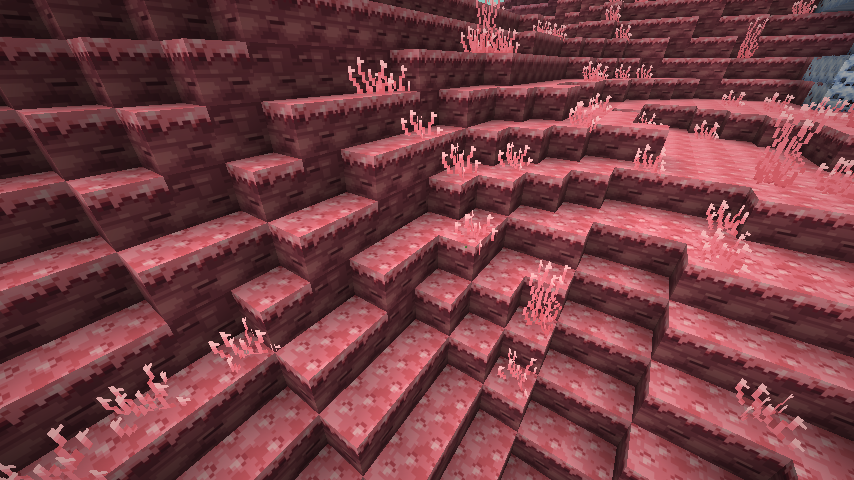
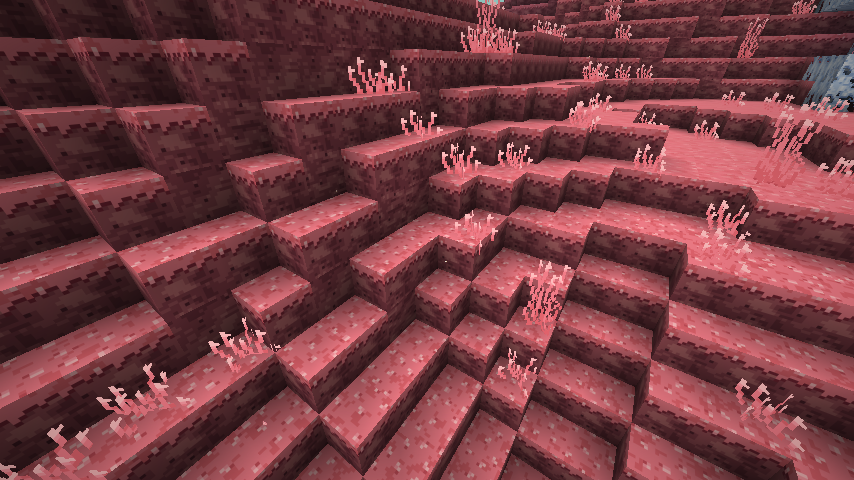
WP-041: texture pass for seamless tiling and variants (owner request)
- Ground textures lose the features the eye followed from block to block:
  hymnstone (soft strata + tiny pores, no crease lines), healthy sculk top
  (calm coral base with scattered small petal clusters), tide sand (short
  broken ripples), songwood leaves (small clumps and scattered gaps).
- Variants: hymnstone x3, tide sand x3, songwood leaves x2, songwood log x2
  (flute holes placed differently), healthy sculk top x3 with 4 random
  rotations each (12 looks), via weighted blockstates in datagen.
- Membrane: a calm two-tone sheet with drifting light ribbons. Ichor: a
  smooth violet body with sparse drifting teal/magenta glints, low contrast
  because every block shows the same frame (as vanilla water does).
- palette.md: tiling rule and the new texture rows (31 textures, 0 errors).
- Previews refreshed from the client GameTest.

Claude-Session: https://claude.ai/code/session_01SmpMRoc9ZR8dTfFL6UVYed

diff --git a/tools/art/build_textures.py b/tools/art/build_textures.py
@@ -87,14 +87,28 @@ def put(im: Image.Image, pts, colour) -> None:
 
 
 # ---------------------------------------------------------------- hymnstone family
+def scatter(seed: int, count: int, spacing: float, w: int = W, h: int = H) -> list[tuple[int, int]]:
+    """Up to `count` points at least `spacing` apart on the wrapped w×h torus (seeded dart throwing)."""
+    rnd = random.Random(seed)
+    pts: list[tuple[int, int]] = []
+    for _ in range(count * 40):
+        if len(pts) == count:
+            break
+        x, y = rnd.randrange(w), rnd.randrange(h)
+        if all(min(abs(x - px), w - abs(x - px)) ** 2 + min(abs(y - py), h - abs(y - py)) ** 2 >= spacing ** 2 for px, py in pts):
+            pts.append((x, y))
+    return pts
+
+
 def hymnstone_pattern(seed: int = 3) -> Image.Image:
-    # Horizontal strata: a noise stretched sideways (2×6 lattice), three tones plus rare deep creases.
-    n = tile_noise(W, H, 2, 6, seed, ((1.0, 1), (0.35, 2)))
-    im = bands(n, [0.18, 0.62, 0.9], [rgba("hymnstone", 2), rgba("hymnstone", 3), rgba("hymnstone", 4), rgba("hymnstone", 5)])
-    # A few dark creases with a highlight above them (light from the top-left).
-    for (x, y, ln) in ((2, 4, 4), (9, 10, 5)):
-        put(im, [(x + i, y) for i in range(ln)], rgba("hymnstone", 1))
-        put(im, [(x + i - 1, y - 1) for i in range(ln - 1)], rgba("hymnstone", 5))
+    # Soft strata: noise stretched sideways plus fine grain, in four close tones. No lines or other
+    # shapes the eye could follow from block to block (the lesson of vanilla stone).
+    n = tile_noise(W, H, 3, 8, seed, ((1.0, 1), (0.5, 2), (0.3, 4)))
+    im = bands(n, [0.1, 0.5, 0.88], [rgba("hymnstone", 2), rgba("hymnstone", 3), rgba("hymnstone", 4), rgba("hymnstone", 5)])
+    # A few tiny pores: one dark pixel with a lit pixel above it.
+    for x, y in scatter(seed * 13 + 1, 4, 5.0):
+        put(im, [(x, y)], rgba("hymnstone", 1))
+        put(im, [(x, y - 1)], rgba("hymnstone", 4))
     return im
 
 
@@ -126,20 +140,24 @@ def hymnstone_bricks() -> Image.Image:
 
 
 # ---------------------------------------------------------------- healthy sculk
-PETAL_TUFT = [  # a small cluster of rounded petals: light crown (P), petal (p), shade (s)
-    ".pP.",
-    "pPPp",
-    "spps",
-    ".ss.",
+PETALS = [  # small petal clusters, all lit from the top-left: crown (P), petal (p), shade (s)
+    ["Pp", "ps"],
+    [".P", "Pp", "s."],
+    ["PP.", "pps"],
+    ["P.", "pP", ".s"],
 ]
 
 
-def healthy_sculk_top() -> Image.Image:
-    n = tile_noise(W, H, 5, 5, 21, ((1.0, 1), (0.5, 2)))
-    im = bands(n, [0.2, 0.75], [rgba("healthy_sculk", 3), rgba("healthy_sculk", 4), rgba("healthy_sculk", 5)])
+def healthy_sculk_top(seed: int = 21) -> Image.Image:
+    # A carpet of tiny petals: fine low-contrast noise, then small scattered clusters in varied
+    # shapes. Blockstates add random rotations on top of the variants, as vanilla grass does.
+    n = tile_noise(W, H, 8, 8, seed, ((1.0, 1), (0.35, 2)))
+    im = bands(n, [0.25], [rgba("healthy_sculk", 3), rgba("healthy_sculk", 4)])
     colours = {"P": rgba("healthy_sculk", 6), "p": rgba("healthy_sculk", 5), "s": rgba("healthy_sculk", 2)}
-    for (ox, oy) in ((1, 2), (9, 4), (5, 10), (13, 12)):
-        for dy, row in enumerate(PETAL_TUFT):
+    rnd = random.Random(seed)
+    for (ox, oy) in scatter(seed * 7 + 3, 8, 4.5):
+        shape = PETALS[rnd.randrange(len(PETALS))]
+        for dy, row in enumerate(shape):
             for dx, ch in enumerate(row):
                 if ch != ".":
                     put(im, [(ox + dx, oy + dy)], colours[ch])
@@ -237,12 +255,15 @@ FLUTE_HOLE = [  # 2×3 hole: lip (L) on the lit top-left, bore (b), shaded rim (
 ]
 
 
-def songwood_log() -> Image.Image:
-    # Bark: vertical furrows (noise stretched vertically).
-    n = tile_noise(W, H, 8, 2, 31, ((1.0, 1), (0.3, 2)))
+FLUTE_SPOTS = {1: ((4, 3), (11, 11)), 2: ((2, 9), (12, 2))}
+
+
+def songwood_log(variant: int = 1) -> Image.Image:
+    # Bark: vertical furrows (noise stretched vertically); two flute holes, placed per variant.
+    n = tile_noise(W, H, 8, 2, 31 + variant * 100, ((1.0, 1), (0.3, 2)))
     im = bands(n, [0.22, 0.6, 0.88], [rgba("songwood_bark", 1), rgba("songwood_bark", 2), rgba("songwood_bark", 3), rgba("songwood_bark", 4)])
     c = {"L": rgba("flute", 0), "l": rgba("songwood_bark", 5), "b": rgba("songwood_bark", 0)}
-    for (ox, oy) in ((4, 3), (11, 11)):
+    for (ox, oy) in FLUTE_SPOTS[variant]:
         for dy, row in enumerate(FLUTE_HOLE):
             for dx, ch in enumerate(row):
                 if ch != ".":
@@ -286,15 +307,17 @@ def songwood_planks() -> Image.Image:
     return im
 
 
-def songwood_leaves() -> Image.Image:
-    n = tile_noise(W, H, 8, 8, 51, ((1.0, 1), (0.4, 2)))
-    im = bands(n, [0.16, 0.38, 0.7, 0.9],
+def songwood_leaves(seed: int = 51) -> Image.Image:
+    # Fine-grained so the gaps scatter as single pixels and pairs, like vanilla leaves, instead of
+    # forming blobs that line up from block to block.
+    n = tile_noise(W, H, 6, 6, seed, ((1.0, 1), (0.75, 2)))
+    im = bands(n, [0.2, 0.42, 0.75, 0.93],
                [(0, 0, 0, 0), rgba("songwood_leaves", 1), rgba("songwood_leaves", 2), rgba("songwood_leaves", 3), rgba("songwood_leaves", 4)])
     px = im.load()
-    # Pale-blue edges where a leaf meets a gap below or right (shade side).
+    # Pale-blue edges where a leaf meets a gap below (shade side).
     for y in range(H):
         for x in range(W):
-            if px[x, y][3] and (px[x, (y + 1) % H][3] == 0 or px[(x + 1) % W, y][3] == 0):
+            if px[x, y][3] and px[x, (y + 1) % H][3] == 0:
                 px[x, y] = rgba("songwood_leaves", 0)
     return im
 
@@ -329,15 +352,19 @@ def songwood_sapling() -> Image.Image:
 
 
 # ---------------------------------------------------------------- tide basin
-def tide_sand() -> Image.Image:
-    n = tile_noise(W, H, 4, 4, 61)
-    im = bands(n, [0.3, 0.75], [rgba("tide_sand", 2), rgba("tide_sand", 3), rgba("tide_sand", 4)])
-    # Ripple marks: gently waving lines, dark trough with a light crest above.
-    for base in (2, 7, 12):
-        for x in range(W):
-            y = base + round(math.sin(x / W * 2 * math.pi + base) * 1.0)
-            put(im, [(x, y)], rgba("tide_sand", 1))
-            put(im, [(x, y - 1)], rgba("tide_sand", 5))
+def tide_sand(seed: int = 61) -> Image.Image:
+    # Fine silt in three close tones, with short broken ripple marks (crest over trough) scattered
+    # per variant rather than lines running across every block.
+    n = tile_noise(W, H, 5, 5, seed, ((1.0, 1), (0.6, 2)))
+    im = bands(n, [0.15, 0.7], [rgba("tide_sand", 2), rgba("tide_sand", 3), rgba("tide_sand", 4)])
+    rnd = random.Random(seed)
+    for (x0, y0) in scatter(seed * 5 + 2, 6, 5.0):
+        ln = rnd.randint(3, 6)
+        phase = rnd.random() * 6.28
+        for i in range(ln):
+            y = y0 + round(math.sin(i / 2.5 + phase) * 0.6)
+            put(im, [(x0 + i, y)], rgba("tide_sand", 1 if 0 < i < ln - 1 else 2))
+            put(im, [(x0 + i, y - 1)], rgba("tide_sand", 5))
     return im
 
 
@@ -406,6 +433,8 @@ MEM_C = noise_fn(6, 6, 107)
 
 
 def membrane_frames(n: int = 32) -> list[Image.Image]:
+    # A calm cyan sheet: two soft tones that drift, crossed by thin bright ribbons (the contour of a
+    # second drifting field), so it shimmers without tiling into a pattern.
     frames = []
     for f in range(n):
         im = Image.new("RGBA", (W, H))
@@ -413,35 +442,40 @@ def membrane_frames(n: int = 32) -> list[Image.Image]:
         s = f / n * W  # scroll one full period over the loop
         for y in range(H):
             for x in range(W):
-                v = 0.55 * MEM_A(x + s, y) + 0.45 * MEM_B(x, y - s) + 0.25 * MEM_C(x - s, y + s)
-                i = max(0, min(5, int((v - 0.18) / 0.82 * 7)))
-                px[x, y] = rgba("membrane", i, 176 + i * 9)
+                body = 0.6 * MEM_A(x + s, y) + 0.4 * MEM_B(x, y - s)
+                i = 2 if body < 0.5 else 3
+                rib = MEM_C(x - s, y + s)
+                if abs(rib - 0.5) < 0.05:
+                    i = 4
+                if abs(rib - 0.5) < 0.018:
+                    i = 5
+                px[x, y] = rgba("membrane", i, 184 + i * 8)
         frames.append(im)
     return frames
 
 
 # ---------------------------------------------------------------- ichor
 def ichor_frame(w: int, h: int, t: float, flow: bool) -> Image.Image:
-    """Thick iridescent liquid: a dark violet body with slow teal and magenta sheens."""
-    body = noise_fn(3, 3, 111, w, h)
-    sheen_t = noise_fn(4, 4, 113, w, h)
-    sheen_m = noise_fn(5, 3, 117, w, h)
+    """Thick iridescent liquid: a smooth dark-violet body with sparse drifting glints of teal and
+    magenta, like vanilla lava's specks. Low contrast on purpose: every block shows the same frame,
+    so anything bold would draw a grid."""
+    body = noise_fn(4, 4, 111, w, h)
+    teal = noise_fn(5, 5, 113, w, h)
+    magenta = noise_fn(6, 4, 117, w, h)
     im = Image.new("RGBA", (w, h))
     px = im.load()
     s = t * w
     for y in range(h):
         for x in range(w):
             if flow:
-                b, st, sm = body(x, y - s), sheen_t(x, y - s), sheen_m(x, y - 2 * s)
+                b, gt, gm = body(x, y - s), teal(x, y - s), magenta(x, y - 2 * s)
             else:
-                b, st, sm = body(x + s, y), sheen_t(x, y + s), sheen_m(x - s, y - s)
-            colour = rgba("ichor_violet", 1) if b < 0.45 else rgba("ichor_violet", 2)
-            if b < 0.22:
-                colour = rgba("ichor_violet", 0)
-            if st > 0.72:
-                colour = rgba("ichor_teal", 2) if st < 0.84 else rgba("ichor_teal", 3)
-            if sm > 0.76:
-                colour = rgba("ichor_violet", 3) if sm < 0.86 else rgba("ichor_violet", 4)
+                b, gt, gm = body(x + s, y), teal(x, y + s), magenta(x - s, y - s)
+            colour = rgba("ichor_violet", 1) if b < 0.2 else rgba("ichor_violet", 2)
+            if gt > 0.84:
+                colour = rgba("ichor_teal", 1) if gt < 0.93 else rgba("ichor_teal", 2)
+            if gm > 0.9:
+                colour = rgba("ichor_violet", 3)
             px[x, y] = colour
     return im
 
@@ -500,18 +534,26 @@ def trill() -> Image.Image:
 
 def main() -> None:
     save(hymnstone_pattern(), "block/hymnstone.png")
+    save(hymnstone_pattern(seed=4), "block/hymnstone_2.png")
+    save(hymnstone_pattern(seed=9), "block/hymnstone_3.png")
     save(hymnstone_bricks(), "block/hymnstone_bricks.png")
     save(healthy_sculk_top(), "block/healthy_sculk_top.png")
+    save(healthy_sculk_top(seed=22), "block/healthy_sculk_top_2.png")
+    save(healthy_sculk_top(seed=27), "block/healthy_sculk_top_3.png")
     save(healthy_sculk_side(), "block/healthy_sculk_side.png")
     save(plant(GRASS_SHORT), "block/healthy_sculk_grass.png")
     save(plant(GRASS_TALL_BOTTOM), "block/tall_healthy_sculk_grass_bottom.png")
     save(plant(GRASS_TALL_TOP), "block/tall_healthy_sculk_grass_top.png")
     save(songwood_log(), "block/songwood_log.png")
+    save(songwood_log(variant=2), "block/songwood_log_2.png")
     save(songwood_log_top(), "block/songwood_log_top.png")
     save(songwood_planks(), "block/songwood_planks.png")
     save(songwood_leaves(), "block/songwood_leaves.png")
+    save(songwood_leaves(seed=57), "block/songwood_leaves_2.png")
     save(songwood_sapling(), "block/songwood_sapling.png")
     save(tide_sand(), "block/tide_sand.png")
+    save(tide_sand(seed=62), "block/tide_sand_2.png")
+    save(tide_sand(seed=67), "block/tide_sand_3.png")
     save(tide_vent_top(), "block/tide_vent_top.png")
     save(tide_vent_side(), "block/tide_vent_side.png")
     save(gatestone(top=False), "block/gatestone.png")

diff --git a/src/client/java/thesift/datagen/ModModelProvider.java b/src/client/java/thesift/datagen/ModModelProvider.java
@@ -1,5 +1,9 @@
 package thesift.datagen;
 
+import java.util.ArrayList;
+import java.util.List;
+import java.util.function.Function;
+
 import net.fabricmc.fabric.api.client.datagen.v1.provider.FabricModelProvider;
 import net.fabricmc.fabric.api.datagen.v1.FabricPackOutput;
 import net.minecraft.client.data.models.BlockModelGenerators;
@@ -10,7 +14,10 @@ import net.minecraft.client.data.models.model.ModelLocationUtils;
 import net.minecraft.client.resources.model.sprite.Material;
 import net.minecraft.core.Direction;
 import net.minecraft.world.level.block.state.properties.BlockStateProperties;
+import net.minecraft.client.data.models.model.ModelTemplate;
 import net.minecraft.client.data.models.model.ModelTemplates;
+import net.minecraft.client.renderer.block.dispatch.Variant;
+import net.minecraft.resources.Identifier;
 import net.minecraft.client.data.models.model.TextureMapping;
 import net.minecraft.client.data.models.model.TextureSlot;
 import net.minecraft.client.data.models.model.TexturedModel;
@@ -28,26 +35,38 @@ final class ModModelProvider extends FabricModelProvider {
 
 	@Override
 	public void generateBlockStateModels(BlockModelGenerators g) {
-		g.createTrivialCube(ModBlocks.HYMNSTONE);
+		// Ground blocks get texture variants (and sculk tops random rotations) so no grid shows (palette.md).
+		g.blockStateOutput.accept(MultiVariantGenerator.dispatch(ModBlocks.HYMNSTONE, BlockModelGenerators.variants(
+				textureVariants(g, ModBlocks.HYMNSTONE, ModelTemplates.CUBE_ALL, 3, sfx -> TextureMapping.cube(TextureMapping.getBlockTexture(ModBlocks.HYMNSTONE, sfx))))));
 		g.family(ModBlocks.HYMNSTONE_BRICKS)
 				.stairs(ModBlocks.HYMNSTONE_BRICK_STAIRS)
 				.slab(ModBlocks.HYMNSTONE_BRICK_SLAB)
 				.wall(ModBlocks.HYMNSTONE_BRICK_WALL);
 
-		// Nylium-style: petalled top, fringed side, hymnstone bottom.
-		cubeBottomTop(g, ModBlocks.HEALTHY_SCULK, new TextureMapping()
+		// Nylium-style: petalled top, fringed side, hymnstone bottom; 3 top variants x 4 rotations.
+		List<Variant> sculk = new ArrayList<>();
+		for (Variant top : textureVariants(g, ModBlocks.HEALTHY_SCULK, ModelTemplates.CUBE_BOTTOM_TOP, 3, sfx -> new TextureMapping()
 				.put(TextureSlot.BOTTOM, TextureMapping.getBlockTexture(ModBlocks.HYMNSTONE))
-				.put(TextureSlot.TOP, TextureMapping.getBlockTexture(ModBlocks.HEALTHY_SCULK, "_top"))
-				.put(TextureSlot.SIDE, TextureMapping.getBlockTexture(ModBlocks.HEALTHY_SCULK, "_side")));
+				.put(TextureSlot.TOP, TextureMapping.getBlockTexture(ModBlocks.HEALTHY_SCULK, "_top" + sfx))
+				.put(TextureSlot.SIDE, TextureMapping.getBlockTexture(ModBlocks.HEALTHY_SCULK, "_side")))) {
+			sculk.addAll(List.of(top, top.with(BlockModelGenerators.Y_ROT_90), top.with(BlockModelGenerators.Y_ROT_180), top.with(BlockModelGenerators.Y_ROT_270)));
+		}
+		g.blockStateOutput.accept(MultiVariantGenerator.dispatch(ModBlocks.HEALTHY_SCULK, BlockModelGenerators.variants(sculk.toArray(Variant[]::new))));
 		g.createCrossBlockWithDefaultItem(ModBlocks.HEALTHY_SCULK_GRASS, BlockModelGenerators.PlantType.NOT_TINTED);
 		g.createDoublePlantWithDefaultItem(ModBlocks.TALL_HEALTHY_SCULK_GRASS, BlockModelGenerators.PlantType.NOT_TINTED);
 
-		g.woodProvider(ModBlocks.SONGWOOD_LOG).log(ModBlocks.SONGWOOD_LOG);
+		g.blockStateOutput.accept(MultiVariantGenerator.dispatch(ModBlocks.SONGWOOD_LOG, BlockModelGenerators.variants(
+				textureVariants(g, ModBlocks.SONGWOOD_LOG, ModelTemplates.CUBE_COLUMN, 2, sfx -> new TextureMapping()
+						.put(TextureSlot.SIDE, TextureMapping.getBlockTexture(ModBlocks.SONGWOOD_LOG, sfx))
+						.put(TextureSlot.END, TextureMapping.getBlockTexture(ModBlocks.SONGWOOD_LOG, "_top")))))
+				.with(BlockModelGenerators.createRotatedPillar()));
 		g.createTrivialCube(ModBlocks.SONGWOOD_PLANKS);
-		g.createTrivialBlock(ModBlocks.SONGWOOD_LEAVES, TexturedModel.LEAVES);
+		g.blockStateOutput.accept(MultiVariantGenerator.dispatch(ModBlocks.SONGWOOD_LEAVES, BlockModelGenerators.variants(
+				textureVariants(g, ModBlocks.SONGWOOD_LEAVES, ModelTemplates.LEAVES, 2, sfx -> TextureMapping.cube(TextureMapping.getBlockTexture(ModBlocks.SONGWOOD_LEAVES, sfx))))));
 		g.createPlantWithDefaultItem(ModBlocks.SONGWOOD_SAPLING, ModBlocks.POTTED_SONGWOOD_SAPLING, BlockModelGenerators.PlantType.NOT_TINTED);
 
-		g.createTrivialCube(ModBlocks.TIDE_SAND);
+		g.blockStateOutput.accept(MultiVariantGenerator.dispatch(ModBlocks.TIDE_SAND, BlockModelGenerators.variants(
+				textureVariants(g, ModBlocks.TIDE_SAND, ModelTemplates.CUBE_ALL, 3, sfx -> TextureMapping.cube(TextureMapping.getBlockTexture(ModBlocks.TIDE_SAND, sfx))))));
 		g.createTrivialBlock(ModBlocks.TIDE_VENT, TexturedModel.COLUMN);
 		g.createTrivialBlock(ModBlocks.GATESTONE, TexturedModel.COLUMN.updateTexture(m -> m
 				.put(TextureSlot.SIDE, TextureMapping.getBlockTexture(ModBlocks.GATESTONE))
@@ -60,9 +79,21 @@ final class ModModelProvider extends FabricModelProvider {
 						.select(Direction.Axis.Z, BlockModelGenerators.plainVariant(ModelLocationUtils.getModelLocation(ModBlocks.SIFT_MEMBRANE, "_ew")))));
 	}
 
-	private static void cubeBottomTop(BlockModelGenerators g, Block block, TextureMapping mapping) {
-		g.blockStateOutput.accept(BlockModelGenerators.createSimpleBlock(block,
-				BlockModelGenerators.plainVariant(ModelTemplates.CUBE_BOTTOM_TOP.create(block, mapping, g.modelOutput))));
+	/**
+	 * Models for texture variants {@code <name>}, {@code <name>_2}, ... of one template; the first keeps
+	 * the plain name, so the item model still finds it.
+	 */
+	private static Variant[] textureVariants(BlockModelGenerators g, Block block, ModelTemplate template, int count,
+			Function<String, TextureMapping> mapping) {
+		Variant[] out = new Variant[count];
+		for (int i = 0; i < count; i++) {
+			String suffix = i == 0 ? "" : "_" + (i + 1);
+			Identifier model = i == 0
+					? template.create(block, mapping.apply(suffix), g.modelOutput)
+					: template.createWithSuffix(block, suffix, mapping.apply(suffix), g.modelOutput);
+			out[i] = BlockModelGenerators.plainModel(model);
+		}
+		return out;
 	}
 
 	@Override

diff --git a/docs/PLAYTEST.md b/docs/PLAYTEST.md
@@ -3,8 +3,8 @@
 Step-by-step checklists the owner can run in-game. Produced at every gate.
 
 ## Preview `v0.1.0-alpha.preview` (2026-10-01): get in, watch the tide, get out
-The first playable build (D-018). **In it:** the Sift dimension and Singer's Meadow (block set I), the Tides (sky, light, stars, beds), the way in through an Ancient City and the way back, ichor, tide basins and ichor pools.
-**Not in it yet** (the rest of M1): creatures (the Blub), music reactions, the Sift's own sounds and subtitles (vanilla stand-ins play), advancements, the Sift's own particles (vanilla stand-ins), the fog inside ichor, and the "breathing" hints on a frame nobody has touched.
+The first playable build (D-018). **In it:** the Sift dimension and Singer's Meadow (block set I), the Tides (sky, light, stars, beds, Trills by day and glow petals by night), music reactions, the way in through an Ancient City and the way back, ichor, tide basins and ichor pools.
+**Not in it yet** (the rest of M1): creatures (the Blub), the Sift's own sounds and subtitles (vanilla stand-ins play), advancements, the fog inside ichor, and the "breathing" hints on a frame nobody has touched.
 
 ### Install (≈5 minutes)
 1. Minecraft Java **26.3**, **Fabric Loader 0.19.5** or newer, and **Fabric API 0.161.0+26.3** in `mods/`.
@@ -37,10 +37,11 @@ The first playable build (D-018). **In it:** the Sift dimension and Singer's Mea
 1. Look around: rolling coral hills of healthy sculk, white-crowned songwood groves, pink grass.
 2. The creative tab **The Sift** lists every block. Craft songwood planks and hymnstone bricks (stairs, slabs, walls; the stonecutter works too).
 3. Saplings grow and bone meal works **only in the Sift**; healthy sculk covered by a block dies back to hymnstone.
-4. **Tell me:** what reads well, and what looks off (colours, textures, the membrane's pattern, the ichor surface)?
+4. **Music reactions:** play a note block, goat horn or jukebox near healthy sculk or songwood. **Expect:** glowing petals lift off the sculk and grass, and the songwood's flute holes puff notes (within 12 blocks). It works at home too, and with the sound muted.
+5. **Tell me:** what reads well, and what looks off (colours, textures, the membrane's pattern, the ichor surface)?
 
 ### Known issues in this preview
-- Stand-in sounds and particles are vanilla's.
+- Sounds are vanilla stand-ins; so are the particles of the frame, the membrane and ichor (the sky's motes and the music petals are the Sift's own).
 - The membrane's and the ichor's surface patterns tile visibly; both are on the art-polish list.
 - Leaving through a gate always returns you to the frame you entered by. Dying in the Sift sends you to your Overworld spawn.
 - Unofficial fan project, not affiliated with or endorsed by Mojang Studios or Microsoft.

diff --git a/docs/DESIGN/palette.md b/docs/DESIGN/palette.md
@@ -11,6 +11,7 @@ below allows.
 - Alpha is free for fully transparent pixels (cutout plants, leaves, particles) and for the two translucent strips
   (membrane 176–224); every visible pixel's RGB must still come from a ramp.
 - Hue shifts along a ramp on purpose: shadows lean cooler, highlights warmer, as vanilla ramps do.
+- **Tiling:** every block texture tiles seamlessly and avoids features the eye can follow from block to block (no lines or tufts on a grid). Ground blocks ship variants (`_2`, `_3`), and healthy sculk's top also takes random rotations, as vanilla grass does.
 
 ## Ramps
 
@@ -36,18 +37,26 @@ below allows.
 | Texture (under `assets/thesift/textures/`) | Ramps |
 |---|---|
 | `block/hymnstone.png` | hymnstone |
+| `block/hymnstone_2.png` | hymnstone |
+| `block/hymnstone_3.png` | hymnstone |
 | `block/hymnstone_bricks.png` | hymnstone |
 | `block/healthy_sculk_top.png` | healthy_sculk |
+| `block/healthy_sculk_top_2.png` | healthy_sculk |
+| `block/healthy_sculk_top_3.png` | healthy_sculk |
 | `block/healthy_sculk_side.png` | healthy_sculk, hymnstone |
 | `block/healthy_sculk_grass.png` | healthy_sculk |
 | `block/tall_healthy_sculk_grass_bottom.png` | healthy_sculk |
 | `block/tall_healthy_sculk_grass_top.png` | healthy_sculk |
 | `block/songwood_log.png` | songwood_bark, flute |
+| `block/songwood_log_2.png` | songwood_bark, flute |
 | `block/songwood_log_top.png` | songwood_bark, songwood_planks, flute |
 | `block/songwood_planks.png` | songwood_planks |
 | `block/songwood_leaves.png` | songwood_leaves |
+| `block/songwood_leaves_2.png` | songwood_leaves |
 | `block/songwood_sapling.png` | songwood_bark, songwood_leaves, flute |
 | `block/tide_sand.png` | tide_sand |
+| `block/tide_sand_2.png` | tide_sand |
+| `block/tide_sand_3.png` | tide_sand |
 | `block/tide_vent_top.png` | hymnstone, ichor_violet, ichor_teal |
 | `block/tide_vent_side.png` | hymnstone, ichor_violet, ichor_teal |
 | `block/gatestone.png` | gatestone, hymnstone, glyph |
